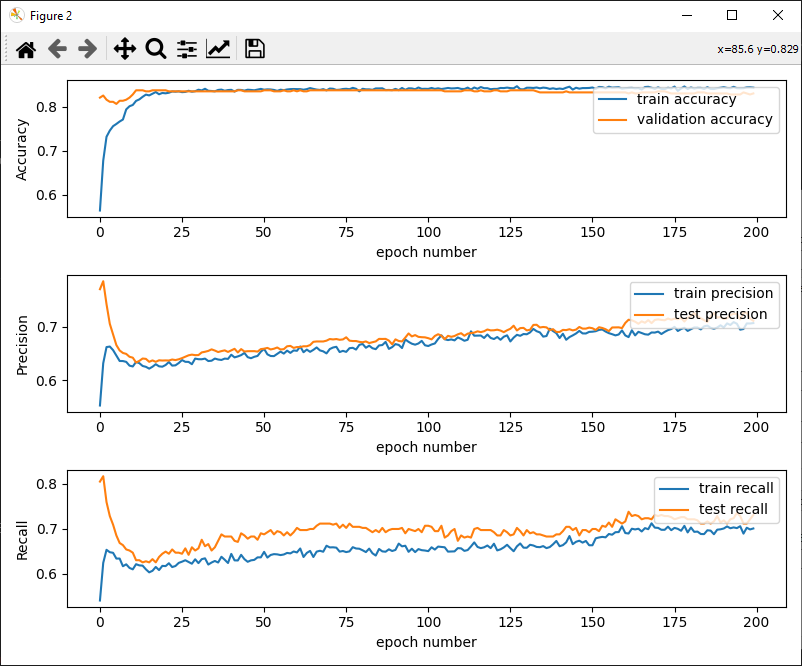
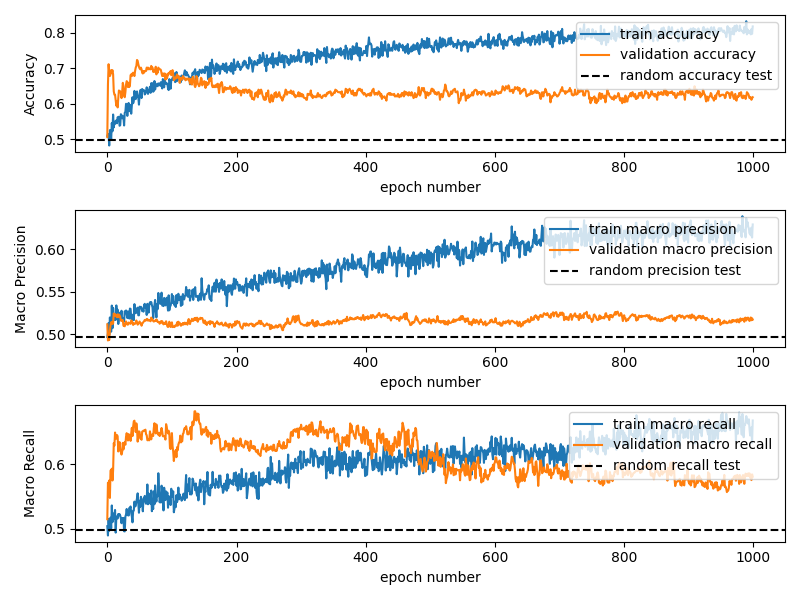
Added random classifier and updated readme

Changed region(s): [[0.0, 0.0, 1.0, 1.0]]

diff --git a/methods.py b/methods.py
@@ -19,7 +19,7 @@ from keras.layers import BatchNormalization
 import tensorflow as tf
 import tensorflow.keras.backend as K
 import random as rn
-from sklearn.metrics import accuracy_score
+from sklearn.metrics import accuracy_score, recall_score, precision_score
 
 pd.options.mode.chained_assignment = None  # default='warn'
 
@@ -510,18 +510,22 @@ def macro_recall(y_true, y_pred):
     
     return macro_recall
 
-def random_pred(y_true, y_pred):
-    y_random = np.random.choice([0, len(y_pred.columns)-1], size=len(y_pred))
-    y_random = pd.DataFrame(y_random, index = y_pred.index, columns = y_pred.columns)
+def random_pred(y_true):
+    accuracies = []
+    recalls = []
+    precisions = []
     
-    # Convert to dummy variables
-    y_random_dummy = y_random.get_dummies()
-    y_random_acc = accuracy_score(y_true, y_pred)
-    y_random_recall = macro_recall(y_true,y_random_dummy)
-    y_random_precision = macro_precision(y_true,y_random_dummy)
+    y_random_range = np.random.choice(y_true.columns, size=len(y_true)*100)
+    y_random_splits = np.split(y_random_range, 100)
     
-    return y_random_acc, y_random_recall, y_random_precision
+    for y_random in y_random_splits:
+        y_random_dummy = pd.get_dummies(y_random).reindex(columns=y_true.columns, fill_value=0)
+
+        accuracies.append(accuracy_score(y_true.values.argmax(axis=1), y_random_dummy.values.argmax(axis=1)))
+        recalls.append(recall_score(y_true, y_random_dummy, average='macro'))
+        precisions.append(precision_score(y_true, y_random_dummy, average='macro'))
     
+    return np.mean(accuracies), np.mean(precisions), np.mean(recalls)
 
 def model(cat_df, num_df, layers_model, dropout, num=True, cat=True, seed=0):
     """
@@ -687,7 +691,7 @@ def abbreviate_label(label, max_length=10):
 
 
 def compare_dist_cat(fullset, subset):
-    # Combine counts from all categorical variables
+    # Combine counts from all categorical variabls
     observed_counts = subset.sum(axis=0)
     full_counts = fullset.sum(axis=0)
 
@@ -697,7 +701,9 @@ def compare_dist_cat(fullset, subset):
 
     # Calculate empirical CDFs
     observed_cdf = np.cumsum(observed_prop)
+
     full_cdf = np.cumsum(full_prop)
+
 
     # Use the K-S test
     ks_statistic, p_value = ks_2samp(observed_cdf, full_cdf)
@@ -710,19 +716,30 @@ def compare_dist_cat(fullset, subset):
         print(
             "The distributions of cat variables in the subset and the entire dataset are NOT statistically different.")
 
-    plt.figure(figsize=(10, 6))
+    fig, axs = plt.subplots(2, 1, figsize=(10, 12))
     
-    # Plot the distribution for the subset
-    plt.plot(range(1, len(observed_cdf) + 1), observed_cdf, 'r--', label='Subset CDF', marker='o')  # red dotted line
+    # Calculate the difference between the two CDFs
+    difference = observed_cdf - full_cdf
     
-    # Plot the distribution for the full dataset
-    plt.plot(range(1, len(full_cdf) + 1), full_cdf, 'b-', label='Full Dataset CDF', marker='o')  # solid blue line
+    # plot the two CDFs
+    axs[0].plot(range(1, len(observed_cdf) + 1), observed_cdf, 'r--', label='Subset combined CDF', marker='o')
+    axs[0].plot(range(1, len(full_cdf) + 1), full_cdf, 'b-', label='Full Dataset combined CDF', marker='o', alpha=0.4)
+    axs[0].set_title('ECDFs for Subset and Full Dataset')
+    axs[0].set_xlabel('Categories (encoded)')
+    axs[0].set_ylabel('Cumulative Proportion')
+    axs[0].legend()
+    axs[0].grid(True)
     
-    plt.title('ECDFs for Subset and Full Dataset')
-    plt.xlabel('Categories (encoded)')
-    plt.ylabel('Cumulative Proportion')
-    plt.legend()
-    plt.grid(True)
+    # plot the difference
+    axs[1].plot(range(1, len(difference) + 1), difference, 'g-', label='Difference between CDFs', marker='o')
+    axs[1].axhline(0, color='black', linestyle='--')  # Add a line at y=0 for reference
+    axs[1].set_title('Difference between the two CDFs')
+    axs[1].set_xlabel('Categories (encoded)')
+    axs[1].set_ylabel('Difference in Cumulative Proportion')
+    axs[1].legend()
+    axs[1].grid(True)
+    
+    plt.tight_layout()
     plt.show()
 
 def compare_dist_num(fullset, subset):

diff --git a/gui.py b/gui.py
@@ -18,7 +18,7 @@ from PyQt5.QtWidgets import QMainWindow, QApplication, \
     QLineEdit, QTableWidgetItem, QDoubleSpinBox, QCheckBox
 from methods import open_data, split_data, visualize_data, pca_analysis, model \
     , categorize_ui, set_seed_val, resample, compare_dist_num, compare_dist_cat, scale_for_model \
-        , macro_precision, macro_recall
+        , macro_precision, macro_recall, random_pred
         
 
 import concurrent.futures
@@ -316,7 +316,7 @@ class MainWindow(QMainWindow):
         dummified_train = dummified_data.iloc[:len(data_cat_train)]
         dummified_test = dummified_data.iloc[len(data_cat_train):]
 
-        dummified_train, data_num_train, dummified_test, data_num_test = \
+        __, data_num_train, __, data_num_test = \
             scale_for_model(dummified_train, data_num_train, dummified_test, data_num_test)
 
         # check the distribution between test and training set
@@ -565,14 +565,18 @@ class MainWindow(QMainWindow):
         print('Result is: \n')
 
         print(ensemble_result)
+        
+        # Get precision, recall and accuracy based on a random predictor
+        random_acc, random_recall, random_prec = random_pred(test_pheno)
 
         for hist in histories:
-            print(hist.keys())
+            
             fig, axs = plt.subplots(3, figsize=(8, 6))  # Create a 4-subplot figure
 
             # accuracy
             axs[0].plot(hist['categorical_accuracy'], label='train accuracy')
             axs[0].plot(hist['val_categorical_accuracy'], label='validation accuracy')
+            axs[0].axhline(random_acc, color='black', linestyle='--', label='random accuracy test')
             axs[0].set_xlabel('epoch number')
             axs[0].set_ylabel('Accuracy')
             axs[0].legend(loc="upper right")
@@ -580,6 +584,7 @@ class MainWindow(QMainWindow):
             # macro precision
             axs[1].plot(hist['macro_precision'], label='train macro precision')  
             axs[1].plot(hist['val_macro_precision'], label='validation macro precision') 
+            axs[1].axhline(random_prec, color='black', linestyle='--', label='random precision test')
             axs[1].set_xlabel('epoch number')
             axs[1].set_ylabel('Macro Precision')  # <-- Updated here
             axs[1].legend(loc="upper right")
@@ -587,6 +592,7 @@ class MainWindow(QMainWindow):
             # macro recall
             axs[2].plot(hist['macro_recall'], label='train macro recall')  
             axs[2].plot(hist['val_macro_recall'], label='validation macro recall')  
+            axs[2].axhline(random_recall, color='black', linestyle='--', label='random recall test')
             axs[2].set_xlabel('epoch number')
             axs[2].set_ylabel('Macro Recall') 
             axs[2].legend(loc="upper right")

diff --git a/README.md b/README.md
@@ -106,7 +106,7 @@ In this case the null-hypothesis is not rejected thus the distribution between t
 
 For the cumulative categorical distribution the difference is plotted and a line is printed in the console.
 The console line states that the difference between the 2 distributions is significant if the Kolmogorov-Smirnov test Null-hypothesis can be rejected.
-So here we can also conclude that there is not significant difference between the sets. 
+So here we can also conclude that there is not a significant difference between the sets. 
 
 ![My Image](Images/table.PNG)
 
@@ -117,24 +117,38 @@ Moving to the categorize tab to view the table we decide to remove the column'co
 We will move to the edit data tab to this column in this case column number 50.
 After which we run the undersample method with random as parameter, giving us random undersampling to balance the classes.
 
+![My Image](Images/PCA_example_train.PNG)
+![My Image](Images/PCA_example_test.PNG)
+![My Image](Images/PCA_explained.PNG)
+![My Image](Images/PCA_PC1.PNG)
+![My Image](Images/PCA_PC2.PNG)
+
+Running the PCA gives us the PCA of the train in test set, with the loading plot and explained variance for each PC.
+The results of the PCA are not great as there is no clear distinction between classes in the plot.
+This makes sense since the number of components needed to explain 95% of the variance is almost all of the PCs.
+The PCA does show a clear overrepresentation of the healthy class.
+This we can resolve by downsampling this majority class.
+We use random downsampling here.
+
+![My Image](Images/TotalData.PNG)
+We can go back to the first tab to see that the total numbers have indeed changed and the classes are now balanced
 
 ![My Image](Images/setup.PNG)
 
-After this we are ready to set up the model parameters.
-We will move to the model tab and make a model consisting of 2 layers with the first layer having 20 nodes and the final layer having 2 nodes. 
+Moving on to the neural network model, we are ready to set up the model parameters.
+We will move to the model tab and make a model consisting of 2 layers with the first layer having 40 nodes, the middle layer 20 nodes and the final layer having 2 nodes. 
 The final layer must have as many nodes as there are phenotype variables (no mental health issues and mental health issues).
 We will also choose a dropout rate of 0.2. If you want to add another model this is possible with the add tab option.
 However, for this example we will just stick with one. For this model we will set a bootstrap size of 32,
-random seed of 23 and 200 epochs. If we run this without filling in these settings it will run the default ones,
+random seed of 1 and 1000 epochs. If we run this without filling in these settings it will run the default ones,
 which is 32 bootstrap size, random seed of 42 and 100 epochs.
 
 ![My Image](Images/resultplot.PNG)
 
-The results will be shown in a plot and in the command window. In this case the accuracy of the test set is not a good representation of the
-model as the data classes are quite imbalanced. So Precision and Recall metrics are more imformative.
+The results will be shown in a plot and in the command window. Categorical accuracy, macro precision and macro recall are displayed.
+The dotted line is the result if the classifier would randomly classify the classes.
 
-{'loss': 0.507735013961792, 'accuracy': 0.8305489420890808, 'Precision': 0.7116279006004333, 'Recall': 0.7303102612495422}
-
+{'loss': 0.5859974026679993, 'categorical_accuracy': 0.6181384325027466, 'macro_precision': 0.5173971056938171, 'macro_recall': 0.5805574655532837}
 ![My Image](Images/vars.PNG)
 
 The most important features in the data will be extracted and plotted in a bar plot showing
